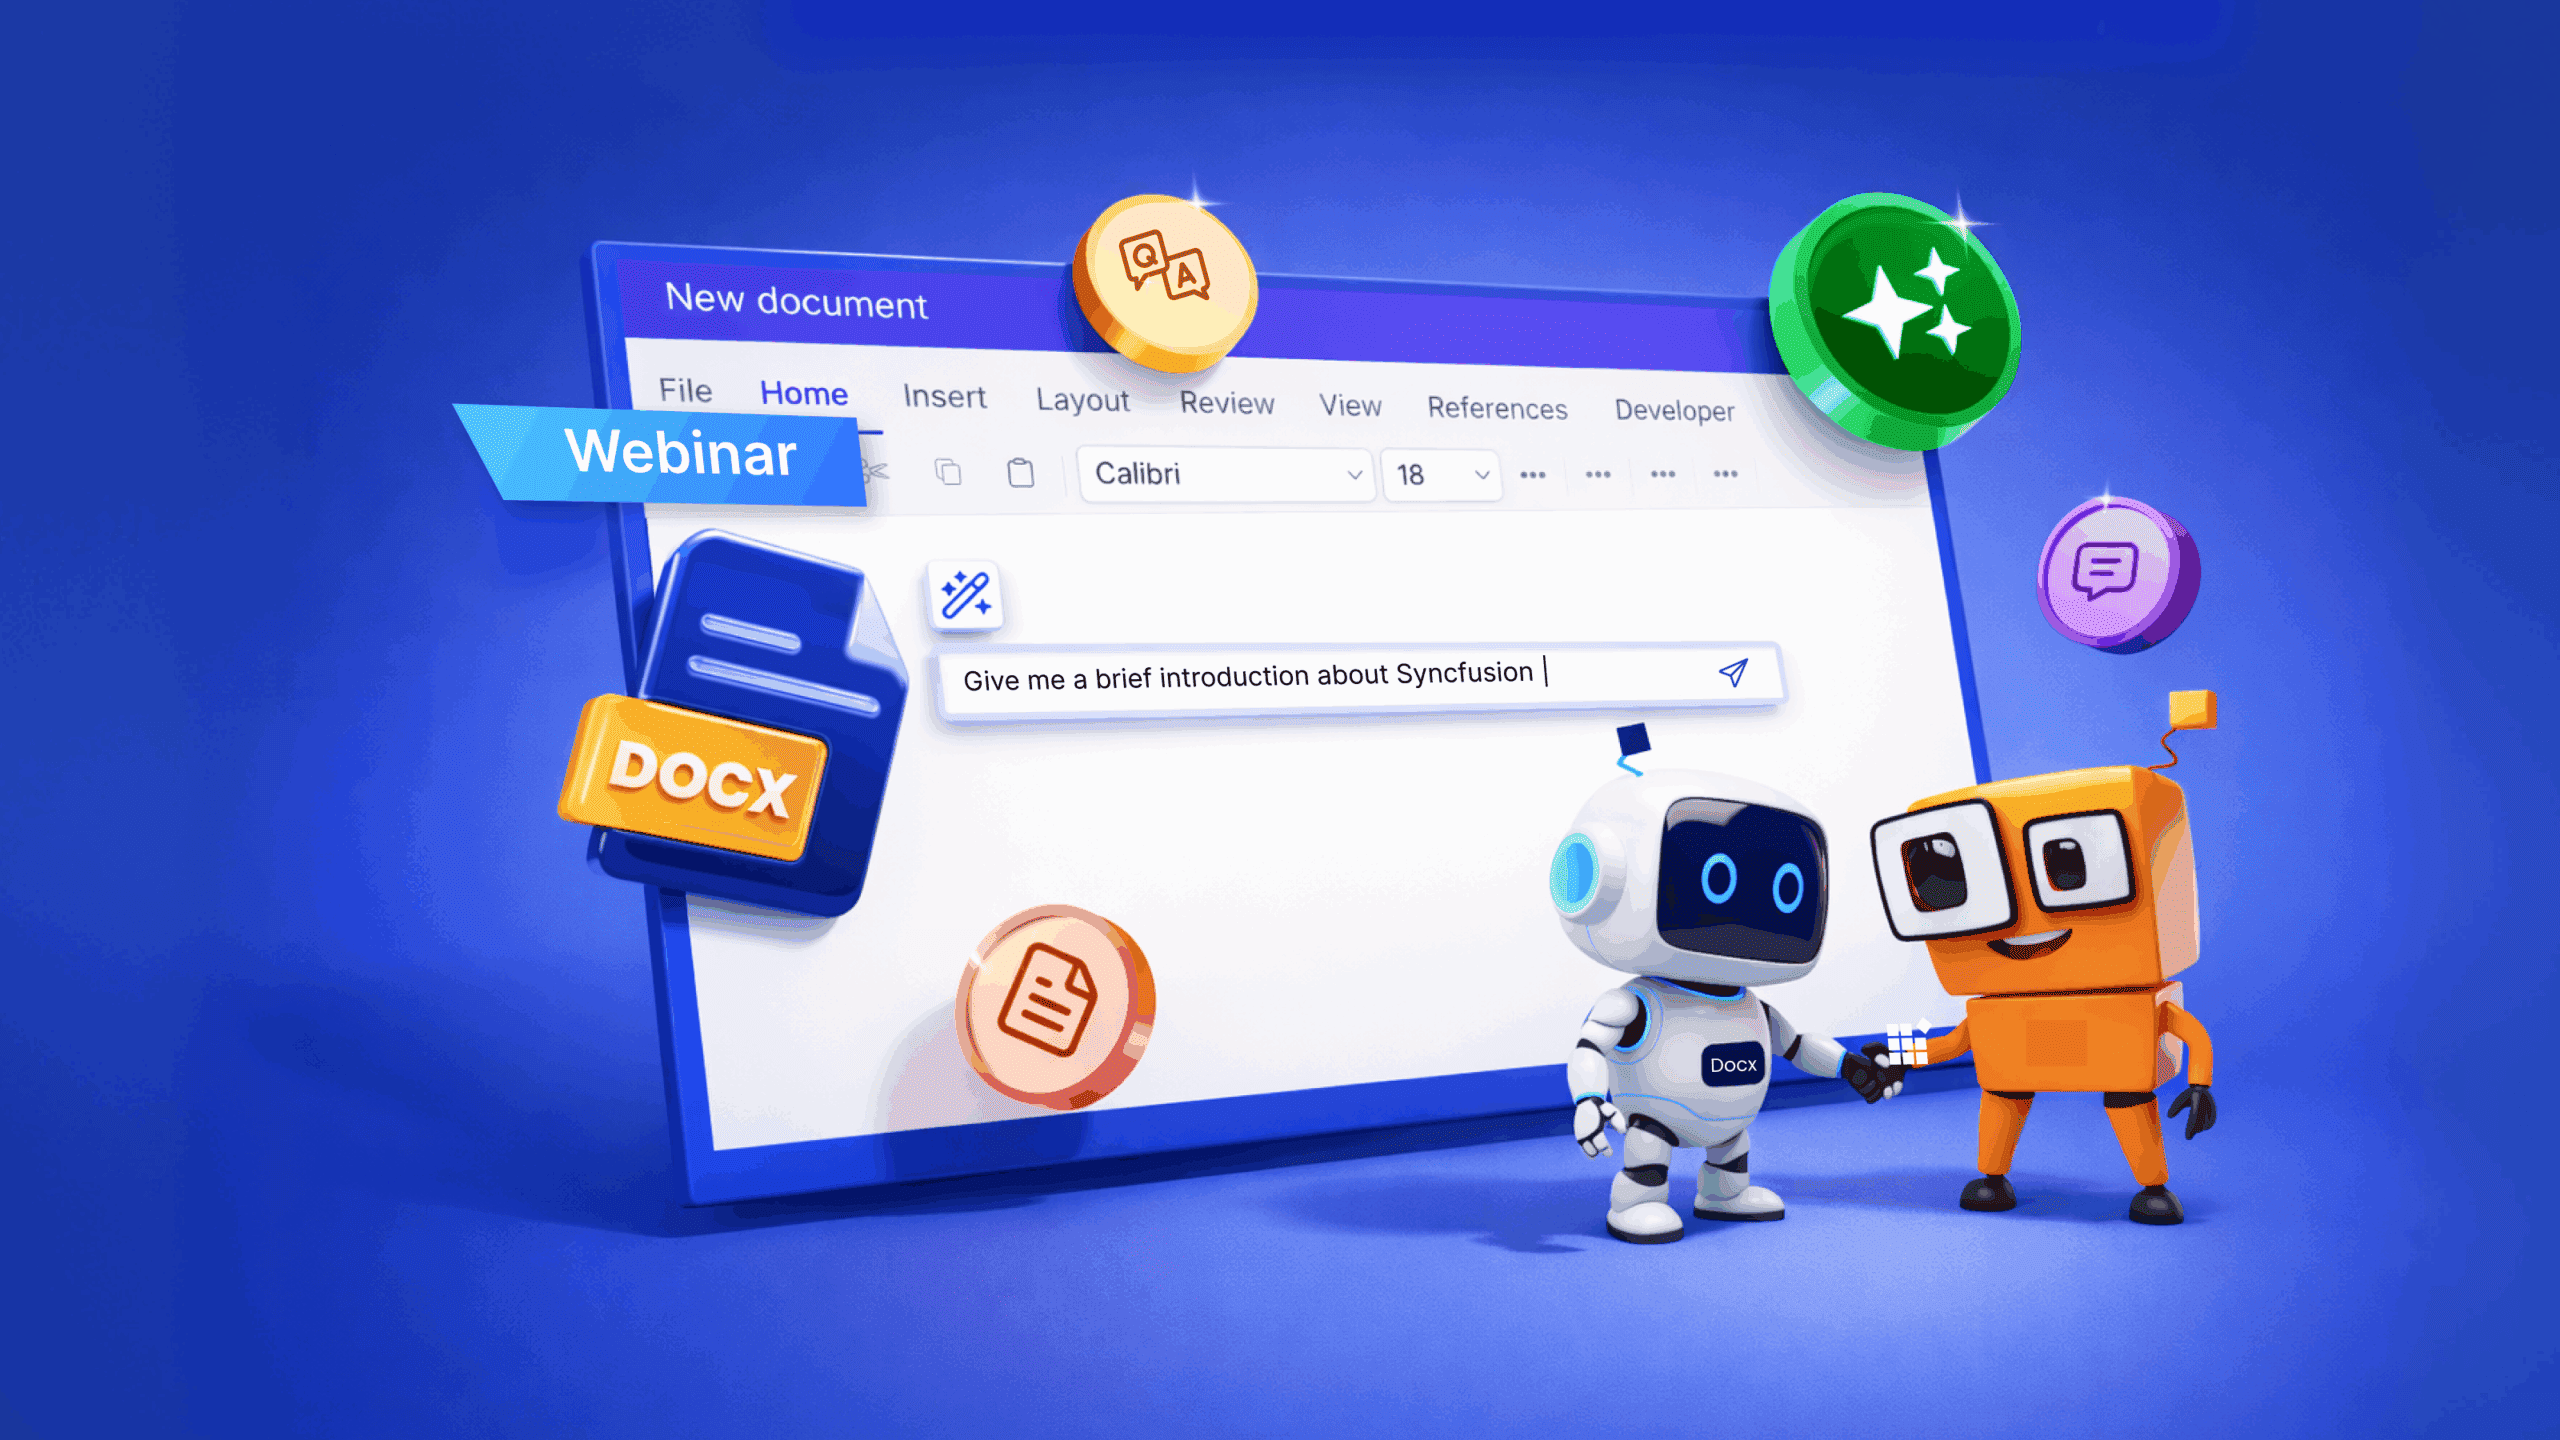
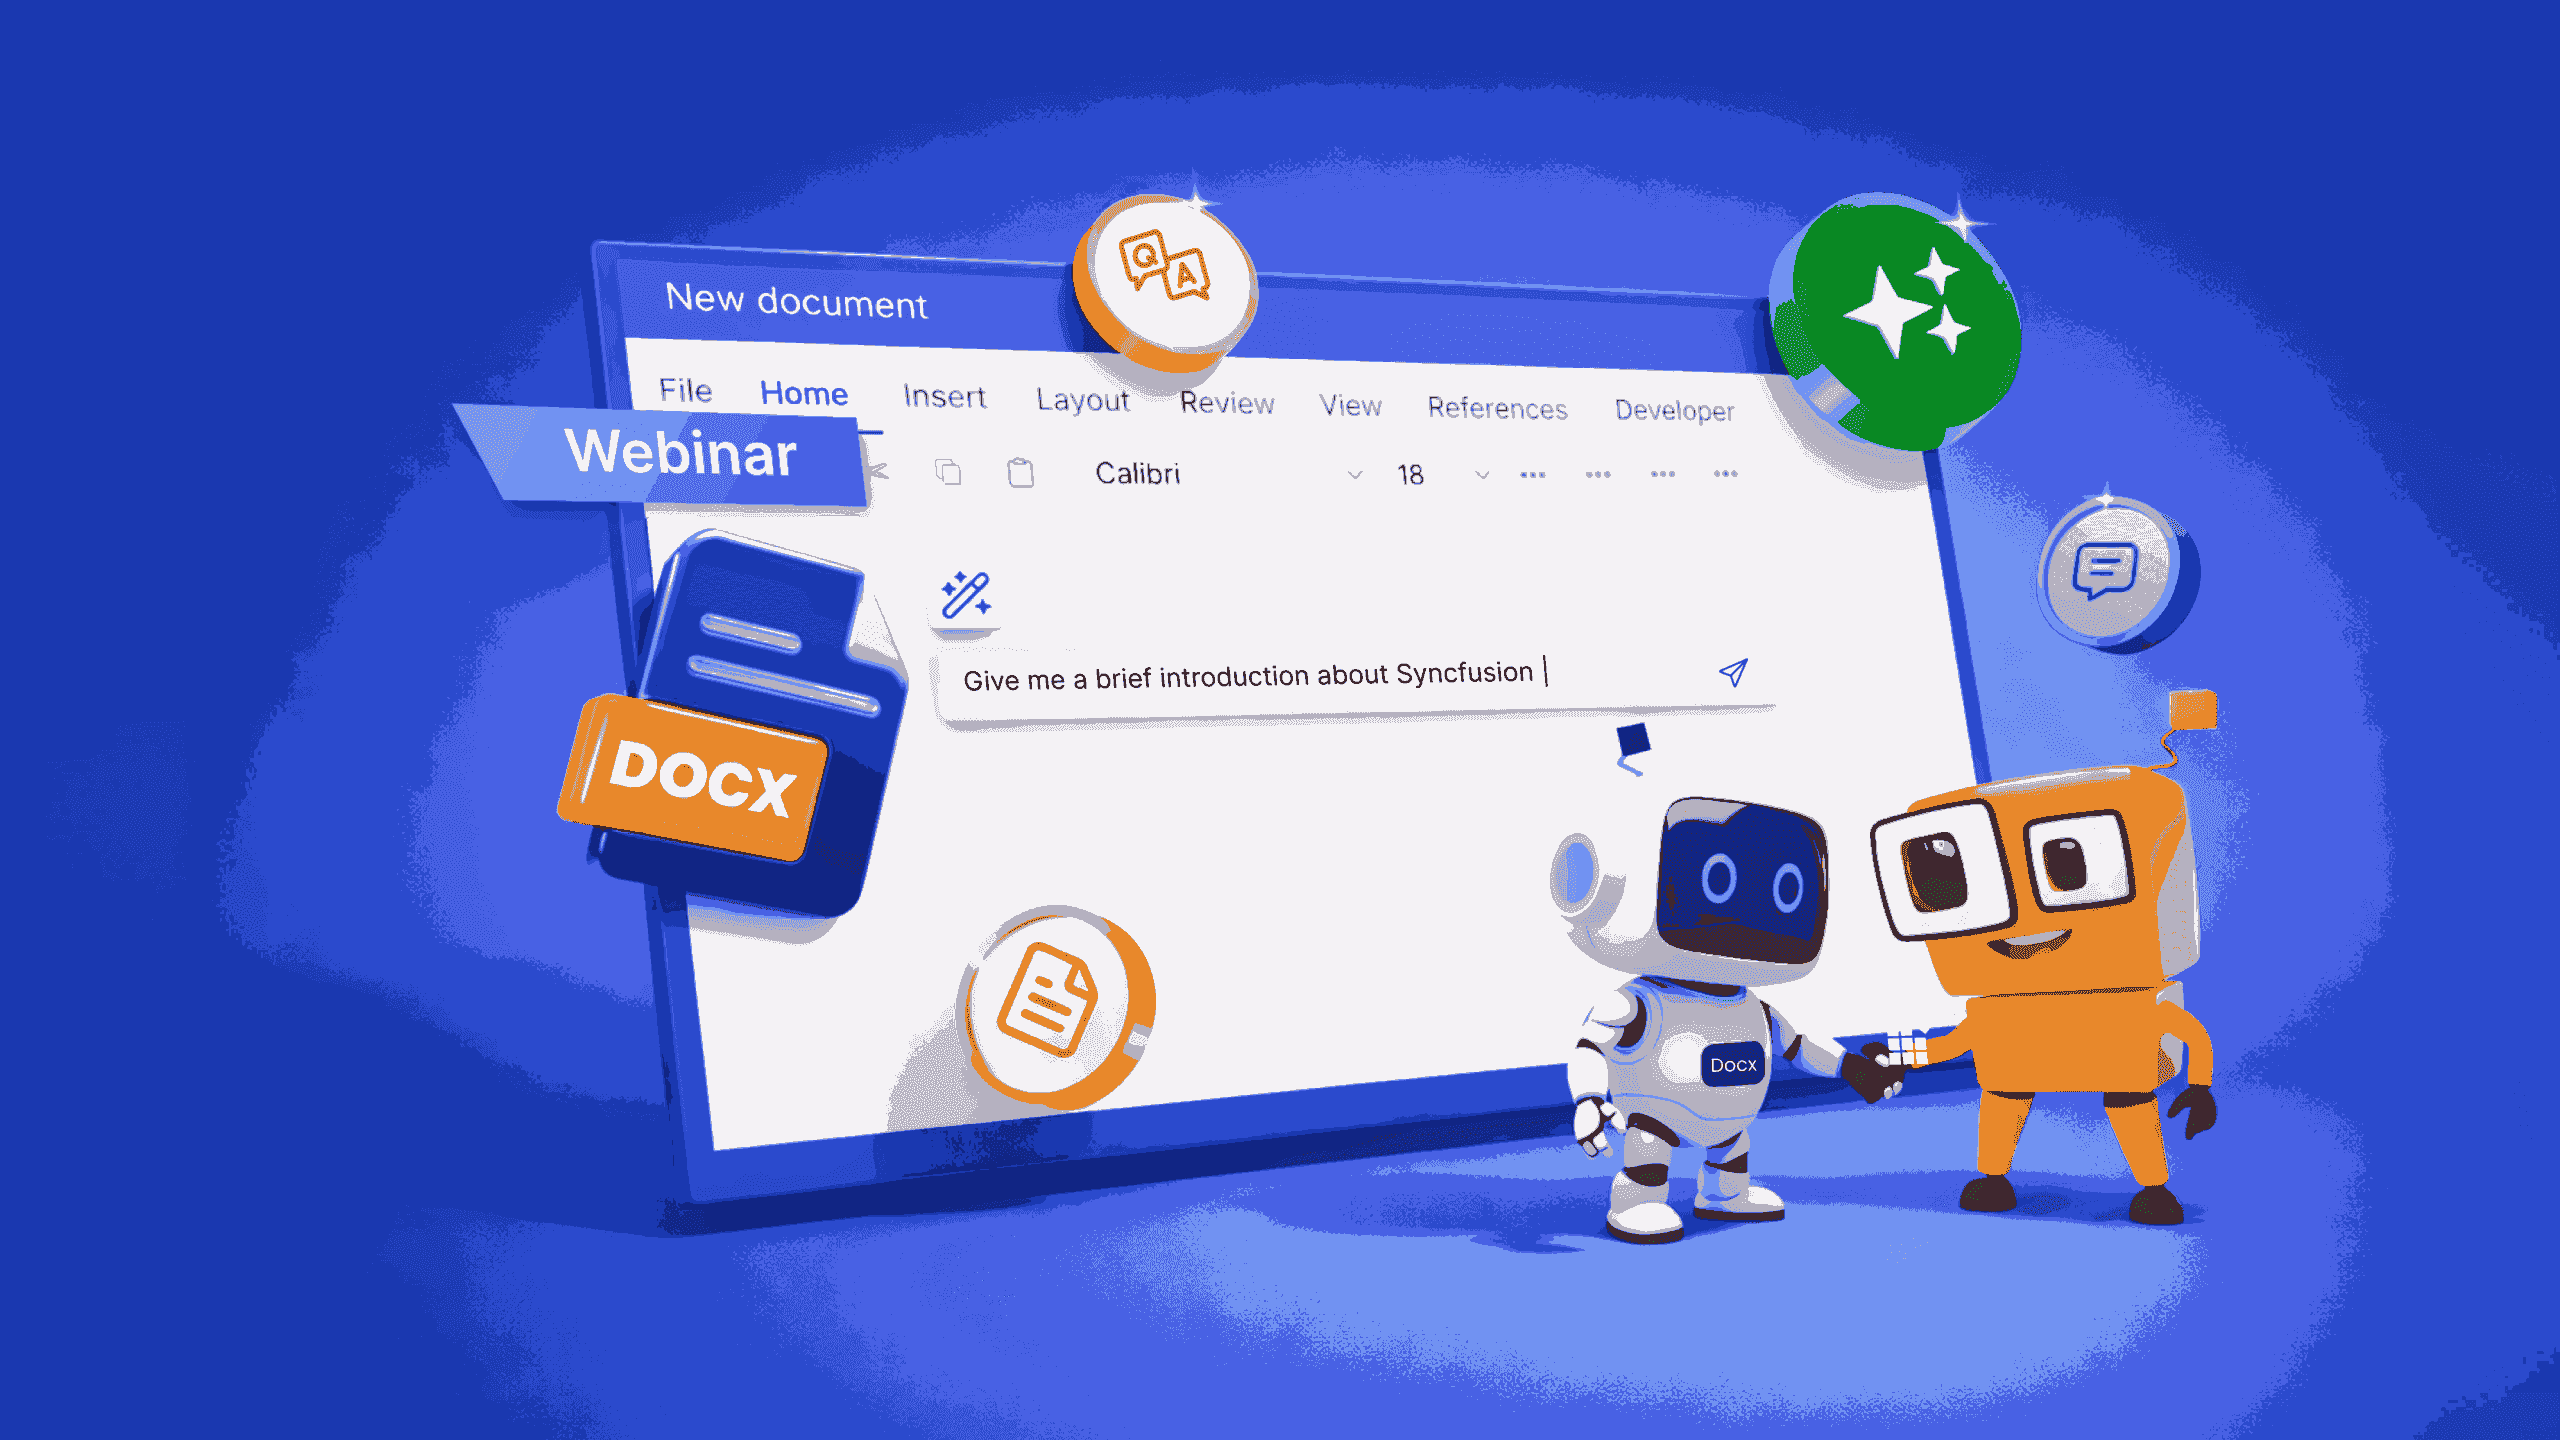
Image size reduced

diff --git a/maui-toc.html b/maui-toc.html
@@ -318,30 +318,6 @@
             <li><a href="/maui/UIKit/release-notes">Release Notes</a></li>
         </ul>
     </li>
-    <li>Components Catalog
-    <ul>
-        <li><a href="/maui/ControlsCatalog">Components Catalog</a></li>
-        </ul>
-        </li>
-    <li>Control Categories
-    <ul>
-        <li><a href="/maui/Controls/AI-and-Smart-Experiences">AI and Smart Experiences</a></li>
-        <li><a href="/maui/Controls/Actions-and-Selection">Actions and Selection</a></li>
-        <li><a href="/maui/Controls/Charts-and-Data-Insights">Charts and Data Insights</a></li>
-        <li><a href="/maui/Controls/Command-and-Actions">Command and Actions</a></li>
-        <li><a href="/maui/Controls/Conversational-Experiences">Conversational Experiences</a></li>
-        <li><a href="/maui/Controls/Data-Management">Data Management</a></li>
-        <li><a href="/maui/Controls/Feedback-and-Status-Indicators">Feedback and Status Indicators</a></li>
-        <li><a href="/maui/Controls/Input-and-Forms">Input and Forms</a></li>
-        <li><a href="/maui/Controls/Interactive-Controls">Interactive Controls</a></li>
-        <li><a href="/maui/Controls/Layouts-and-Containers">Layouts and Containers</a></li>
-        <li><a href="/maui/Controls/Navigation-and-Structure">Navigation and Structure</a></li>
-        <li><a href="/maui/Controls/Scheduling-and-Dates">Scheduling and Dates</a></li>
-        <li><a href="/maui/Controls/Viewer">Viewer</a></li>
-        <li><a href="/maui/Controls/Visual-Enhancements">Visual Enhancements</a></li>
-        <li><a href="/maui/Controls/Workflow-and-Planning">Workflow and Planning</a></li>
-    </ul>
-</li>
   <li>Components
    <ul>
     <li>